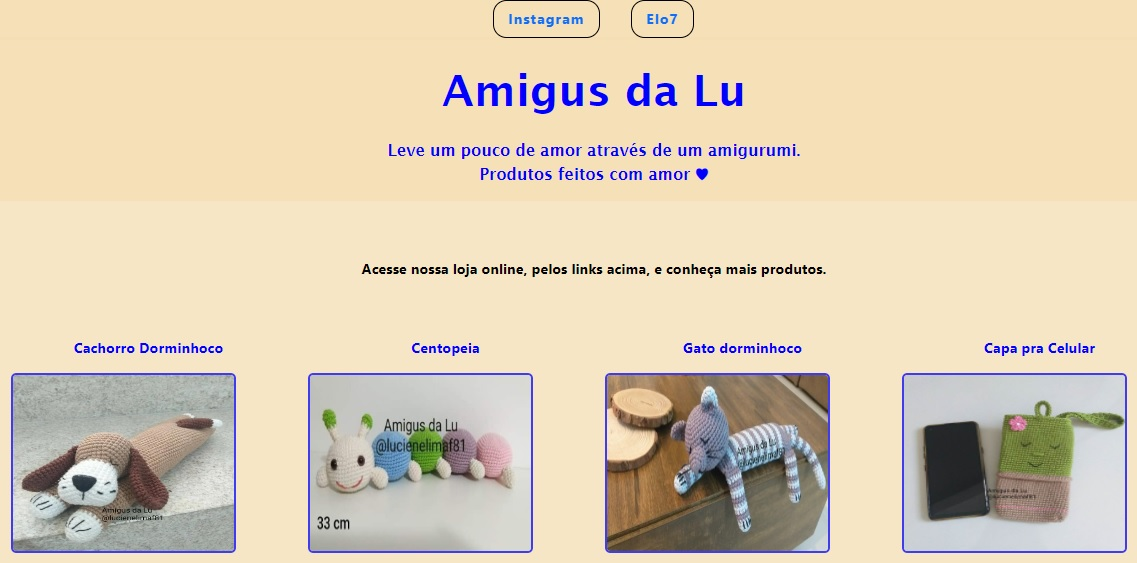
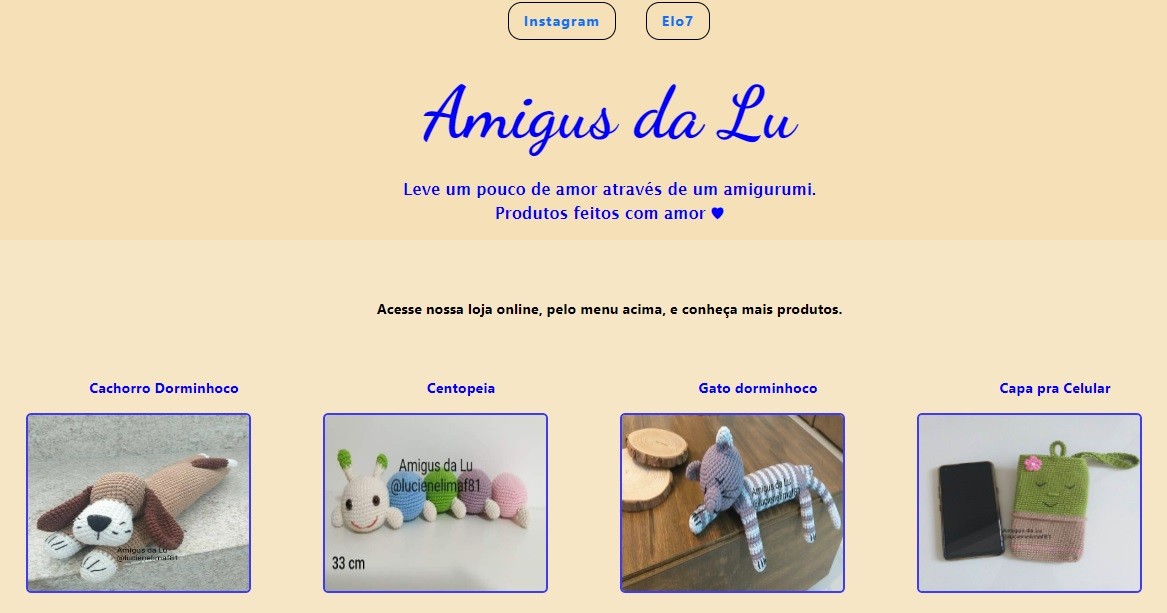
mudando a foto projeto amigus da lu com nova fonte

diff --git a/css/estilo.css b/css/estilo.css
@@ -107,7 +107,7 @@ ul, li, a {
     padding-top: 1rem;
 }
 
- /*h1: título*/   
+ /*Título*/   
 h1 {
     font-size: 2rem;
     color: white;
@@ -238,8 +238,7 @@ p{
 
 }
 
- /*Ícones git,github,html5,css2,JS,python, bootstrap*/
- /*class fa-github1 é da home, pra não misturar com da autora*/
+ /*Ícones: class fa-github1 é da home, pra não misturar com da autora*/
 .ícones_home, .fa-git, .fa-github1, .fa-html5, .fa-css3-alt, .fa-square-js, .fa-bootstrap,.fa-python {
     text-align: center;
     margin-bottom: 0;
@@ -336,6 +335,7 @@ h3 {
     font-size: 1rem;
 }
 
+/*Link para minhas pages github*/
 .acesse {
     font-family: var(--font_primary);
     /*font-family: var(--font_primary);*/
@@ -445,7 +445,7 @@ h3 {
 }
 
 
- /*Input= entrada de dados do usuário*/
+ /*Entrada de dados*/
 .form input {
     padding: .7em;
     border: 5px;
@@ -461,7 +461,7 @@ h3 {
 
 }
 
- /*Animação no contorno de cada input quando usuário clicar*/
+ /*Animação no contorno de cada input*/
 .form input:focus {
     outline: 2px solid var(--color_primary);
     /*outline: 2px solid rgb(0, 68, 255); /*form input:focus = quando clicar no campo ficar amarelo*/
@@ -481,7 +481,7 @@ h3 {
 
 }
 
- /*Animação no contorno da caixa de texto quando usuário clicar*/
+ /*Animação no contorno da caixa de texto*/
 .form textarea:focus {
     outline: 2px solid var(--color_primary);
     /*outline: 2px solid rgb(0, 68, 255);*/
@@ -503,7 +503,6 @@ h3 {
     
 }
 
- /*Botão enviar do form*/
 .btn2:hover { /*hover= mudar de cor ao passar com o mouse*/
     background-color: var(--color_primary);
     /*background-color: rgba(27, 13, 224, 0.774);*/
@@ -512,7 +511,7 @@ h3 {
 
 }
 
-/*Botão subir*/
+/*Botão/seta subir*/
 #up {
 	position:fixed;
 	bottom:0px;
@@ -541,8 +540,6 @@ footer p {
     color: beige;
 
 }
-
-
 
 
 /*RESPONSIVIDADE*/
